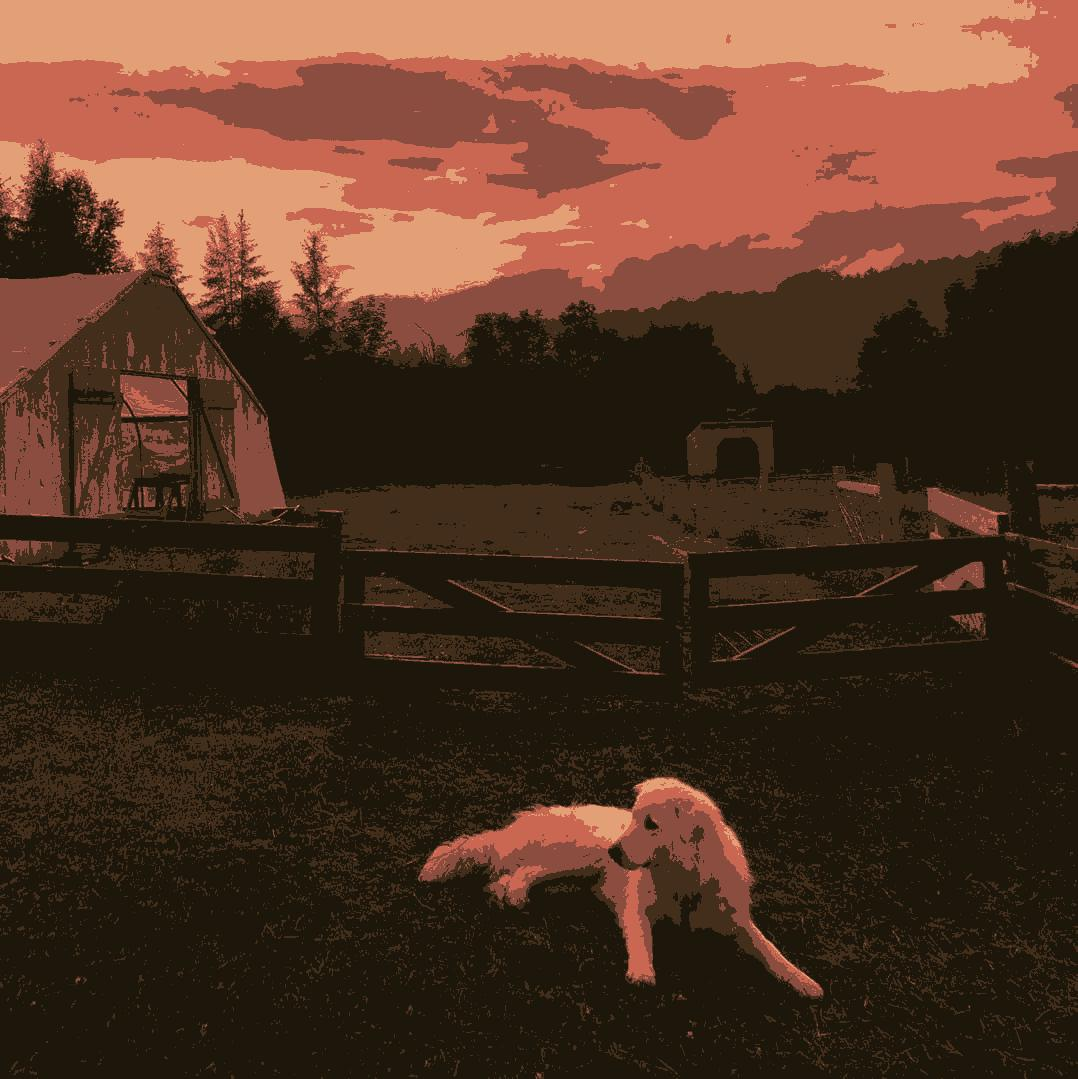
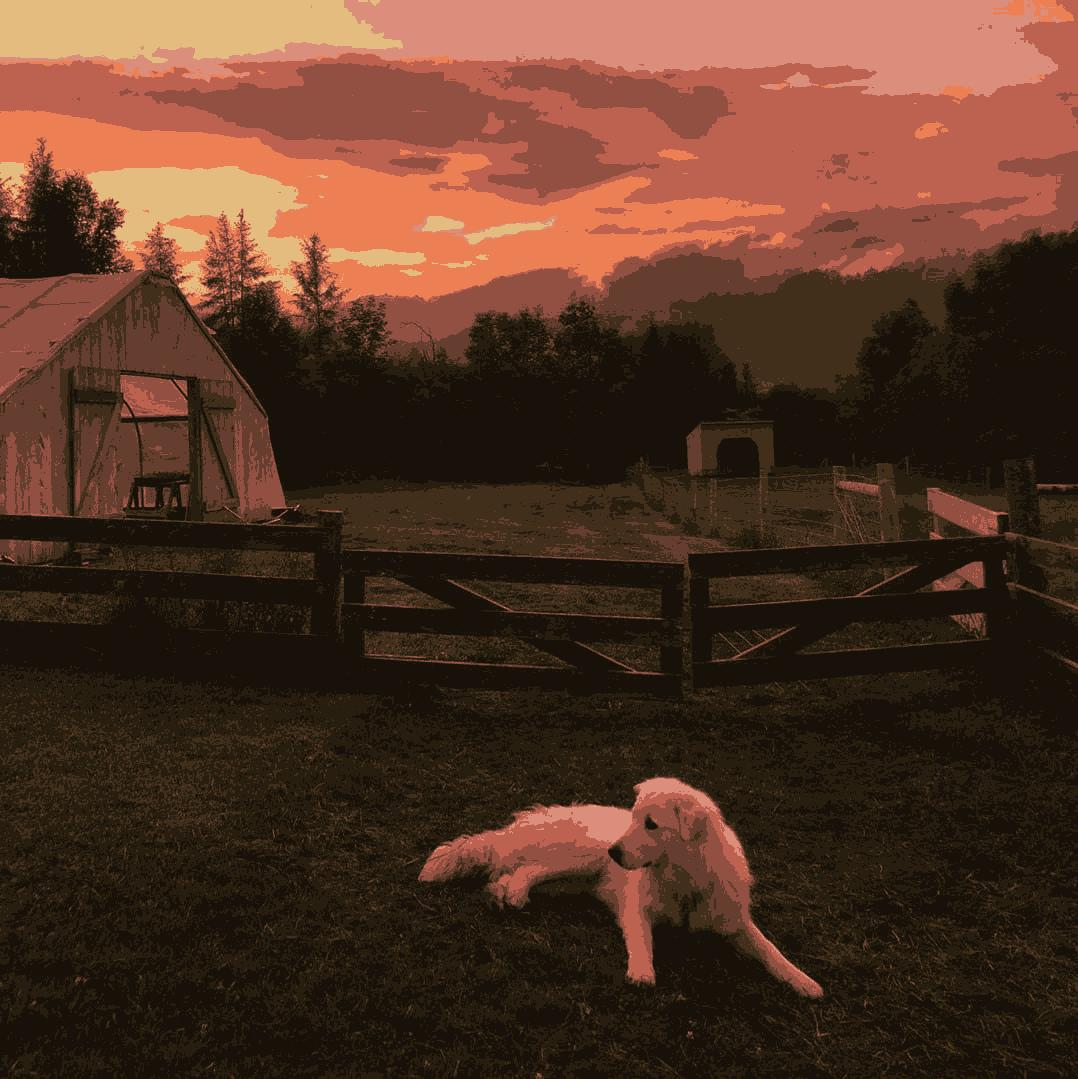
Добавил инфу в readme

diff --git a/README.md b/README.md
@@ -1,10 +1,14 @@
 # Silkscreen
  Проект Шелкография
 
- 
+
  Исходное изображение
 ![Alt text](/README/dog.jpg "Исходное изображение")
 
 
- Итоговое изображение из пяти цветов
+ Итоговое изображение из девяти цветов
+![Alt text](/README/clustered_dog.jpg "Итоговое изображение")
+
+
+ Слои, на которые было разбито изображение (снизу - цвет в RGB)
 ![Alt text](/README/clustered_dog.jpg "Итоговое изображение")
